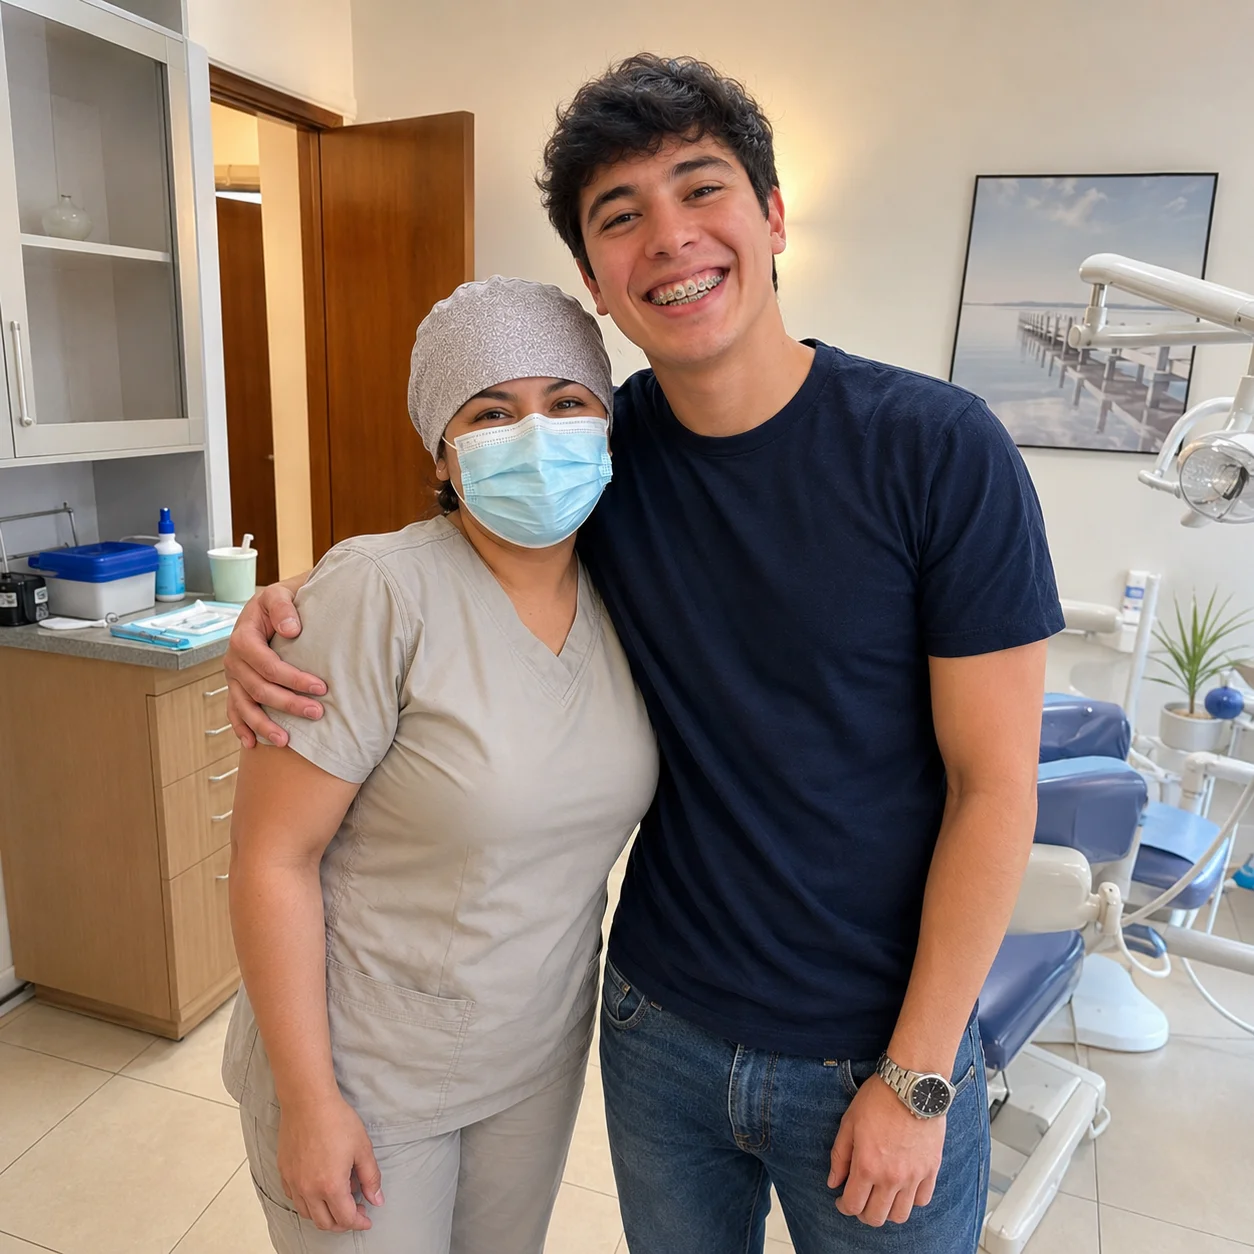
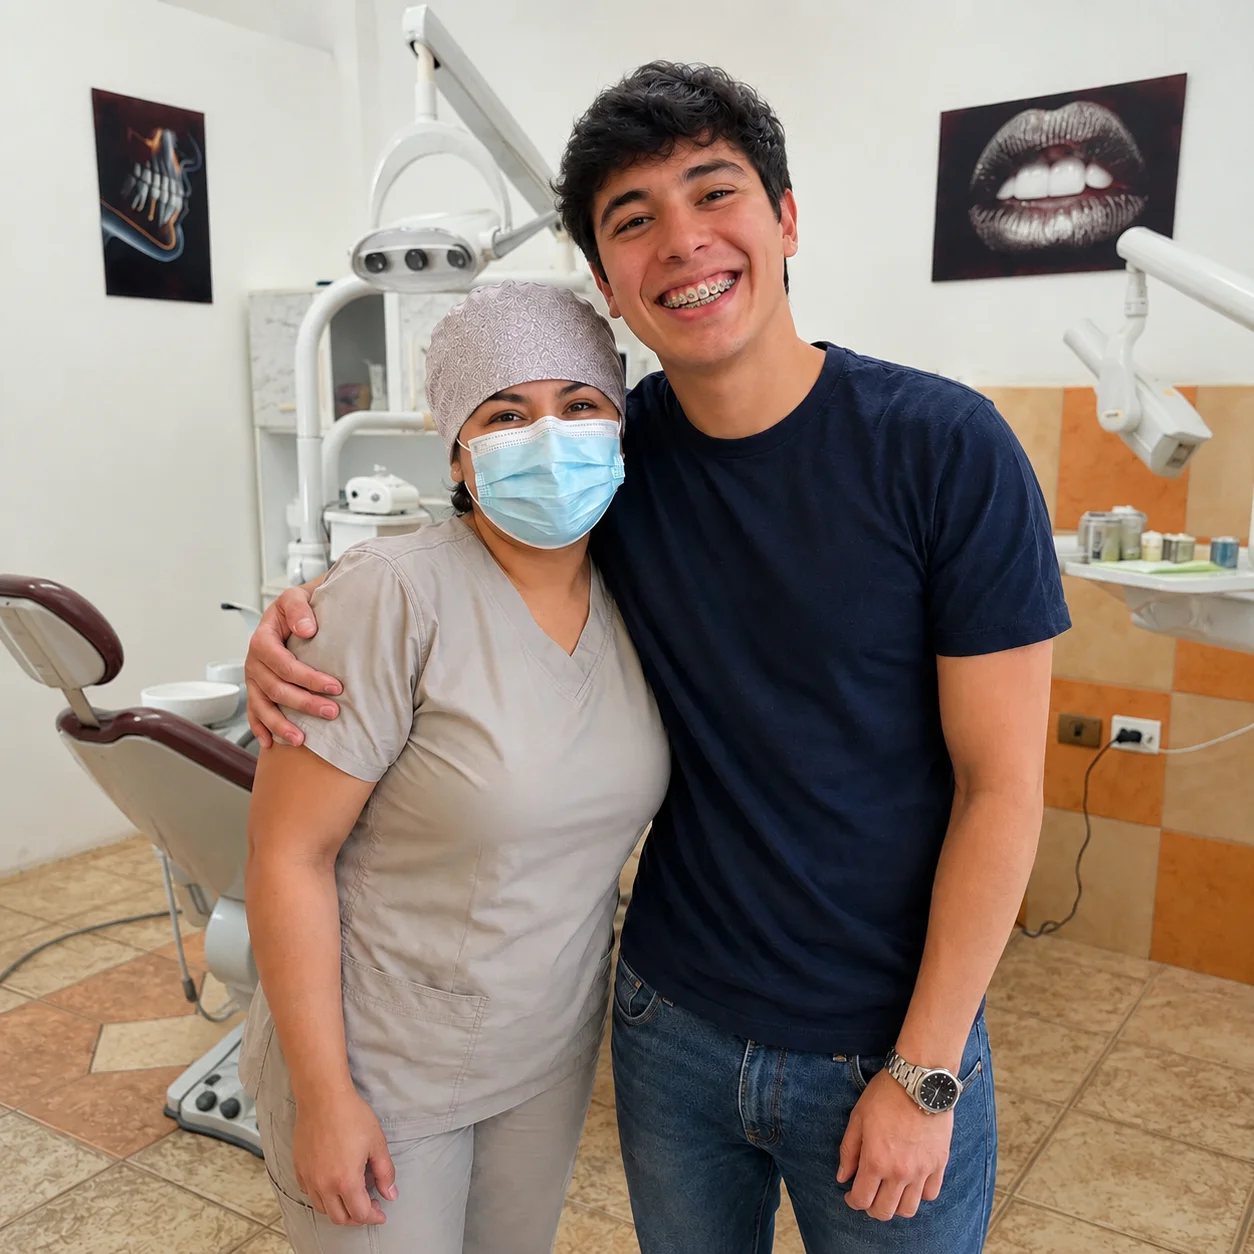
Actualiza la foto de la Dra. Daniela y aplica ajustes de formato en index.html

diff --git a/index.html b/index.html
@@ -272,7 +272,7 @@ a:focus-visible{outline:3px solid var(--sage);outline-offset:3px}
   <div class="wrap">
     <span class="eyebrow">promo por tiempo limitado - cupos reducidos</span>
     <h1>La <span class="smile-word">sonrisa<svg viewBox="0 0 200 20" preserveAspectRatio="none" aria-hidden="true"><path d="M4 4 Q100 24 196 4" fill="none" stroke="#6F8A6E" stroke-width="6" stroke-linecap="round"></path></svg></span> que quieres,<br>paso a paso</h1>
-    <p class="sub"><div>Tratamiento de ortodoncia personalizado con seguimiento profesional en cada etapa para lograr una sonrisa funcional, saludable y armónica.</div></p>
+    <p class="sub">Tratamiento de&nbsp;ortodoncia personalizado con seguimiento profesional en&nbsp;cada etapa para lograr una sonrisa funcional, saludable y&nbsp;armónica.</p>
 
     <!-- Foto principal de la Dra. Daniela Coronel -->
     <img class="hero-photo" src="Ortodoncia Daniel /Doctora.webp" alt="Dra. Daniela Coronel — Especialista en Ortodoncia">
@@ -282,13 +282,13 @@ a:focus-visible{outline:3px solid var(--sage);outline-offset:3px}
       <svg viewBox="0 0 24 24" fill="currentColor" aria-hidden="true"><path d="M12 2a10 10 0 0 0-8.6 15.1L2 22l5.1-1.3A10 10 0 1 0 12 2Zm5.4 14.2c-.2.6-1.3 1.2-1.8 1.2-.5.1-1 .2-3.4-.7-2.9-1.1-4.7-4-4.9-4.2-.1-.2-1.1-1.5-1.1-2.9s.7-2 1-2.3c.2-.3.5-.3.7-.3h.5c.2 0 .4 0 .6.5s.8 1.9.8 2c.1.1.1.3 0 .5-.3.6-.7.9-.5 1.2.7 1.2 1.6 2 2.8 2.6.3.2.5.1.7-.1l.9-1c.2-.3.4-.2.7-.1l2 .9c.3.2.5.3.6.4 0 .1 0 .7-.2 1.3Z"></path></svg>
       Agendar mi evaluación
     </a>
-    <p class="note">Respuesta por WhatsApp en horario de atención</p>
+    <p class="note">Respuesta por WhatsApp en&nbsp;horario de&nbsp;atención</p>
 
     <!-- Señales de confianza. EDITAR el texto según tu caso -->
     <div class="trust">
-      <span><svg viewBox="0 0 24 24" fill="none" stroke="currentColor" stroke-width="2.5" stroke-linecap="round" stroke-linejoin="round" aria-hidden="true"><path d="M20 6 9 17l-5-5"></path></svg>Especialista certificada</span>
-      <span><svg viewBox="0 0 24 24" fill="none" stroke="currentColor" stroke-width="2.5" stroke-linecap="round" stroke-linejoin="round" aria-hidden="true"><path d="M20 6 9 17l-5-5"></path></svg>✓ Tecnología moderna</span>
-      <span><svg viewBox="0 0 24 24" fill="none" stroke="currentColor" stroke-width="2.5" stroke-linecap="round" stroke-linejoin="round" aria-hidden="true"><path d="M20 6 9 17l-5-5"></path></svg>✓ Atención personalizada</span>
+      <span><svg viewBox="0 0 24 24" fill="none" stroke="currentColor" stroke-width="2.5" stroke-linecap="round" stroke-linejoin="round" aria-hidden="true"><path d="M20 6 9 17l-5-5"></path></svg>Especialista&nbsp;certificada</span>
+      <span><svg viewBox="0 0 24 24" fill="none" stroke="currentColor" stroke-width="2.5" stroke-linecap="round" stroke-linejoin="round" aria-hidden="true"><path d="M20 6 9 17l-5-5"></path></svg>Tecnología&nbsp;moderna</span>
+      <span><svg viewBox="0 0 24 24" fill="none" stroke="currentColor" stroke-width="2.5" stroke-linecap="round" stroke-linejoin="round" aria-hidden="true"><path d="M20 6 9 17l-5-5"></path></svg>Atención&nbsp;personalizada</span>
     </div>
   </div>
 </section>
@@ -297,30 +297,26 @@ a:focus-visible{outline:3px solid var(--sage);outline-offset:3px}
 <section class="proceso">
   <div class="wrap">
     <h2>¿QUÉ INCLUYE TU TRATAMIENTO?</h2>
-    <p class="lead"><br></p>
+
 
     <div class="paso">
       <div class="num">1</div>
-      <div><h3>Diagnóstico completo&nbsp;</h3>
-      <p><br></p></div>
+      <div><h3>Diagnóstico completo</h3></div>
     </div>
 
     <div class="paso destacado">
       <div class="num">2</div>
-      <div><h3>Plan de tratamiento personalizado</h3>
-      <p><br></p></div>
+      <div><h3>Plan de&nbsp;tratamiento personalizado</h3></div>
     </div>
 
     <div class="paso">
       <div class="num">3</div>
-      <div><h3>controles periódicos</h3>
-      <p><br></p></div>
+      <div><h3>Controles periódicos</h3></div>
     </div>
 
     <div class="paso">
       <div class="num">4</div>
-      <div><h3>acompañamiento durante todo el proceso</h3>
-      <p><br></p></div>
+      <div><h3>Acompañamiento durante todo el&nbsp;proceso</h3></div>
     </div>
   </div>
 </section>
@@ -328,19 +324,19 @@ a:focus-visible{outline:3px solid var(--sage);outline-offset:3px}
 <!-- ================= PRECIO ================= -->
 <section class="precio">
   <div class="wrap">
-    <h2>Un plan de pago pensado para ti</h2>
+    <h2>Un plan de&nbsp;pago pensado para&nbsp;ti</h2>
     <div class="precio-card">
       <div class="precio-linea">
         <span class="concepto">cuota inicial</span>
         <span class="monto">300 <span>Bs</span></span>
       </div>
       <div class="precio-linea">
-        <span class="concepto">cómodas cuotas mensuales&nbsp;</span>
-        <span class="monto"><br></span>
+        <span class="concepto">Cómodas cuotas mensuales</span>
+        <span class="monto"></span>
       </div>
-      <p class="incluye"><span style="font-size: 15px; text-align: left;">Tratamiento completo de 12 y 24 meses</span></p>
+      <p class="incluye">Tratamiento completo de&nbsp;12 y&nbsp;24&nbsp;meses</p>
     </div>
-    <p class="aviso">La preparación previa de tu boca (si la necesitas) se cotiza en tu evaluación inicial, según tu caso.</p>
+    <p class="aviso">La preparación previa de&nbsp;tu boca (si&nbsp;la necesitas) se&nbsp;cotiza en&nbsp;tu evaluación inicial, según tu&nbsp;caso.</p>
   </div>
 </section>
 
@@ -383,7 +379,7 @@ a:focus-visible{outline:3px solid var(--sage);outline-offset:3px}
       </div>
     </div>
     <div class="testimonio">
-      <p>"Siempre me tapaba la boca para reír porque me daba vergüenza que vean mis dientes chuecos. Desde que empecé mi tratamiento con la Dra. Daniela me siento otra persona, ahora sonrío sin pensarlo dos veces."</p>
+      <p>"Siempre me tapaba la&nbsp;boca para reír porque me&nbsp;daba vergüenza que vean mis dientes chuecos. Desde que empecé mi&nbsp;tratamiento con la&nbsp;Dra.&nbsp;Daniela me&nbsp;siento otra persona, ahora sonrío sin&nbsp;pensarlo dos&nbsp;veces."</p>
       <p class="autor">— María G.</p>
     </div>
   </div>
@@ -392,8 +388,8 @@ a:focus-visible{outline:3px solid var(--sage);outline-offset:3px}
 <!-- ================= CIERRE ================= -->
 <section class="cierre">
   <div class="wrap">
-    <h2>Tu evaluación es el primer paso</h2>
-    <p>Escríbenos y agenda tu cita. En una sola visita sabrás todo sobre tu tratamiento.</p>
+    <h2>Tu evaluación es el&nbsp;primer&nbsp;paso</h2>
+    <p>Escríbenos y&nbsp;agenda tu&nbsp;cita. En&nbsp;una sola visita sabrás todo sobre tu&nbsp;tratamiento.</p>
   </div>
 </section>
 
